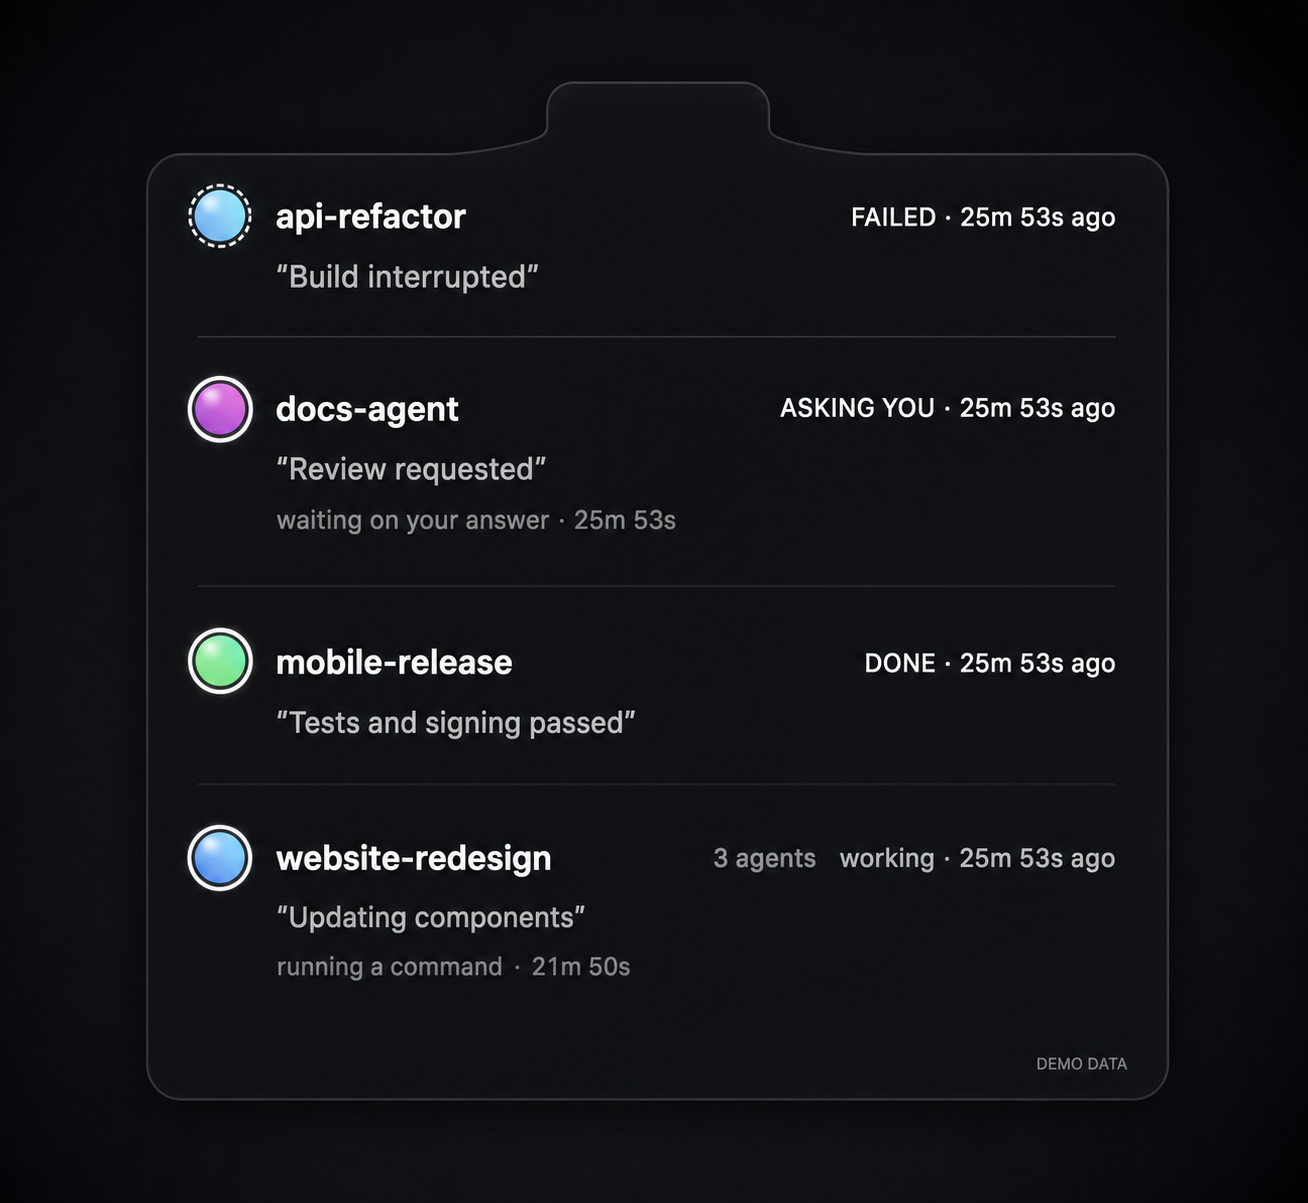
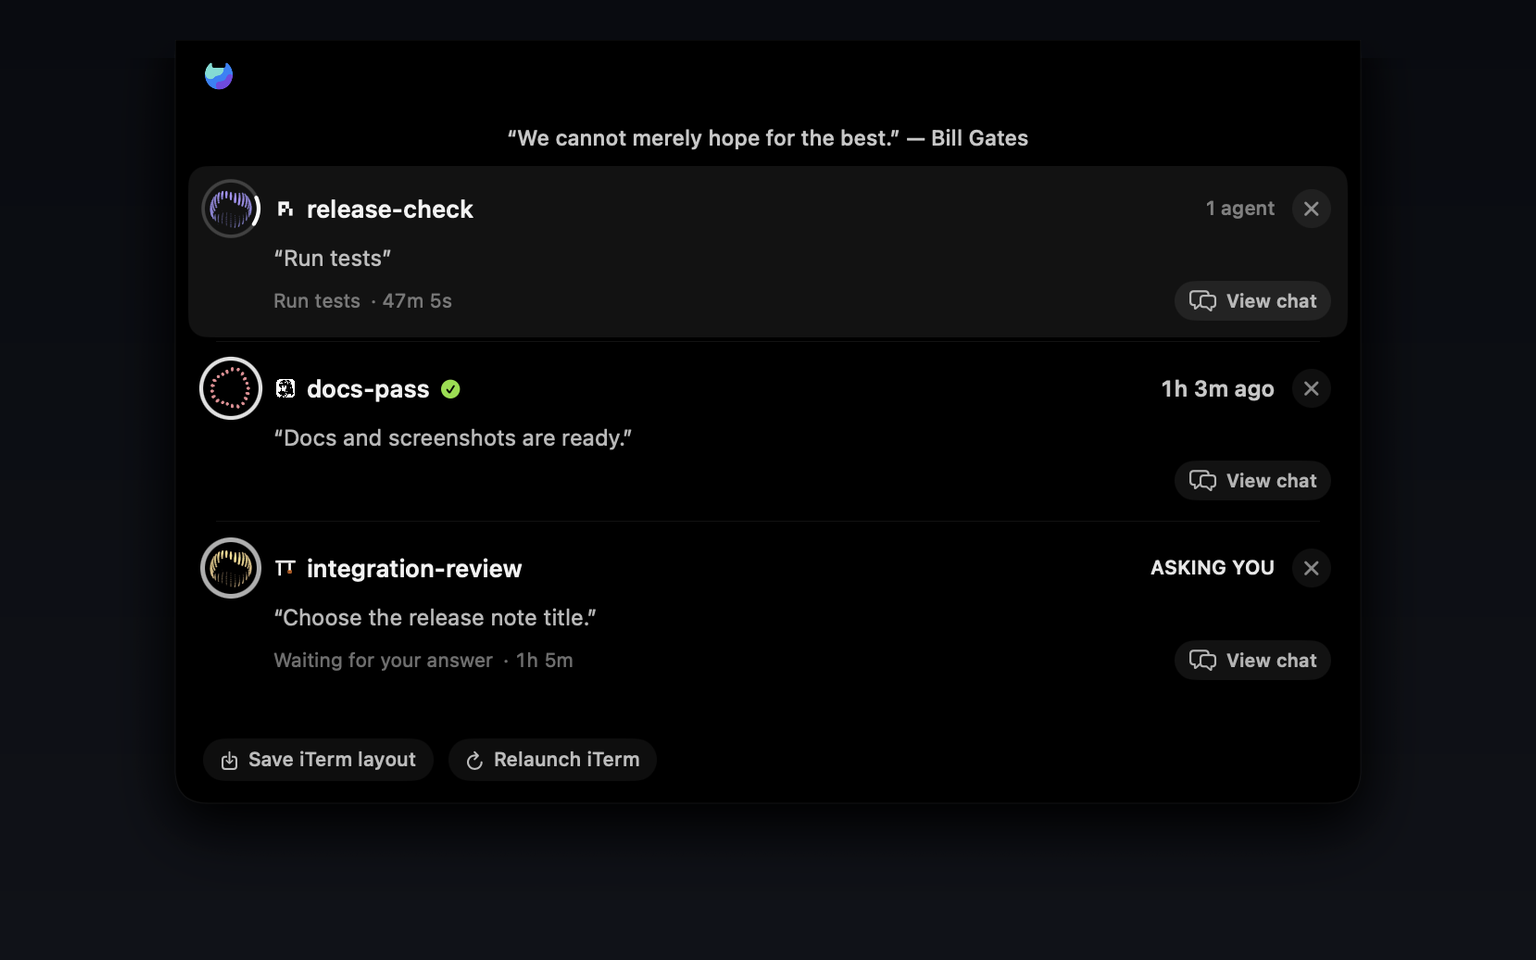
docs: replace mockups with product captures

diff --git a/README.md b/README.md
@@ -17,9 +17,9 @@
   <img alt="Local only" src="https://img.shields.io/badge/data-local--only-86efac">
 </p>
 
-![Noturcode notch session list with demo data](docs/images/noturcode-notch-demo.png)
+![The real Noturcode notch session list showing Pi, OMP, and Hermes Agent sessions](docs/images/noturcode-notch-demo.png)
 
-> The screenshots in this README are clearly labelled mockups made from sanitized demo data. No private terminal transcript or customer project is included.
+> These are captures of the native macOS app. They use sanitized fixture sessions, so no private transcript or project data appears.
 
 ## Why Noturcode
 
@@ -34,7 +34,7 @@ Noturcode is a small native companion for the terminal you already use:
 - **Keep control local.** No account, telemetry, cloud relay, or hosted transcript database. Hooks write to a user-owned Unix socket on the same Mac.
 - **Keep your setup reversible.** Integration setup is explicit, existing hook files are backed up, and the uninstall path removes only Noturcode-owned entries.
 
-![Noturcode full conversation workspace with demo data](docs/images/noturcode-workspace-demo.png)
+![The real Noturcode conversation and agent workflow workspace](docs/images/noturcode-workspace-demo.png)
 
 Noturcode is an open-source Vibe Island alternative, but it is deliberately not positioned as another colored notch notifier. The project is working toward a reliable local session operating layer: status, conversation, orchestration, exact return, and control.
 
